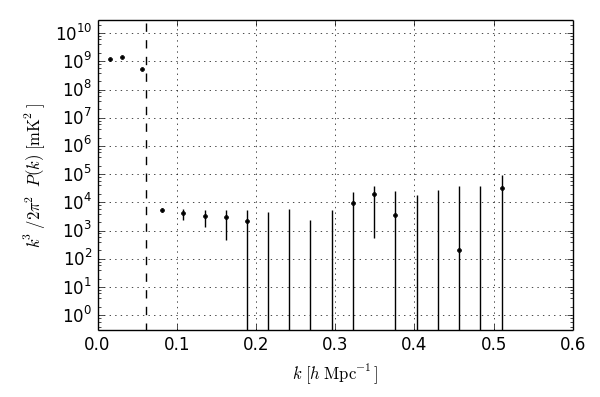
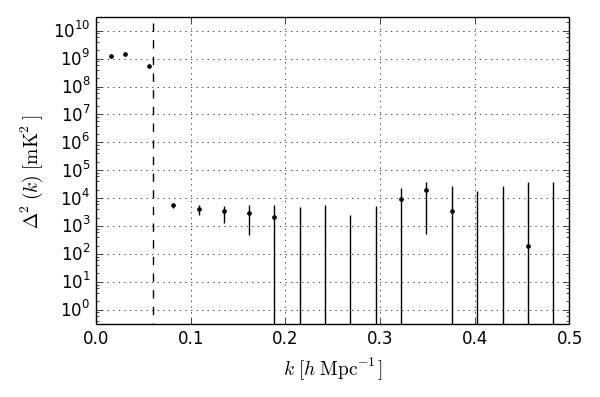
Update to left panel of Fig 4 (pk_k3pk).

Changed region(s): [[0.03, 0.0302, 0.99, 0.9673]]

diff --git a/plots/Pspec/plot_pk_k3pk.py b/plots/Pspec/plot_pk_k3pk.py
@@ -182,9 +182,10 @@ p.plot([k_h, k_h], [1e-10, 1e20], 'k--')
 
 
 p.gca().set_yscale('log', nonposy='clip')
-p.xlabel(r'$k\ [h\ {\rm Mpc}^{-1}]$')
-p.ylabel(r'$k^3/2\pi^2\ P(k)\ [{\rm mK}^2]$')
+p.xlabel(r'$k\ [h\ {\rm Mpc}^{-1}]$', fontsize=14)
+#p.ylabel(r'$k^3/2\pi^2\ P(k)\ [{\rm mK}^2]$')
+p.ylabel(r'$\Delta^2(k)\ [{\rm mK}^2]$', fontsize=14)
 p.ylim(3e-1,3e10)
-p.xlim(0, 0.6)
+p.xlim(0, 0.5)
 p.grid()
 p.show()
